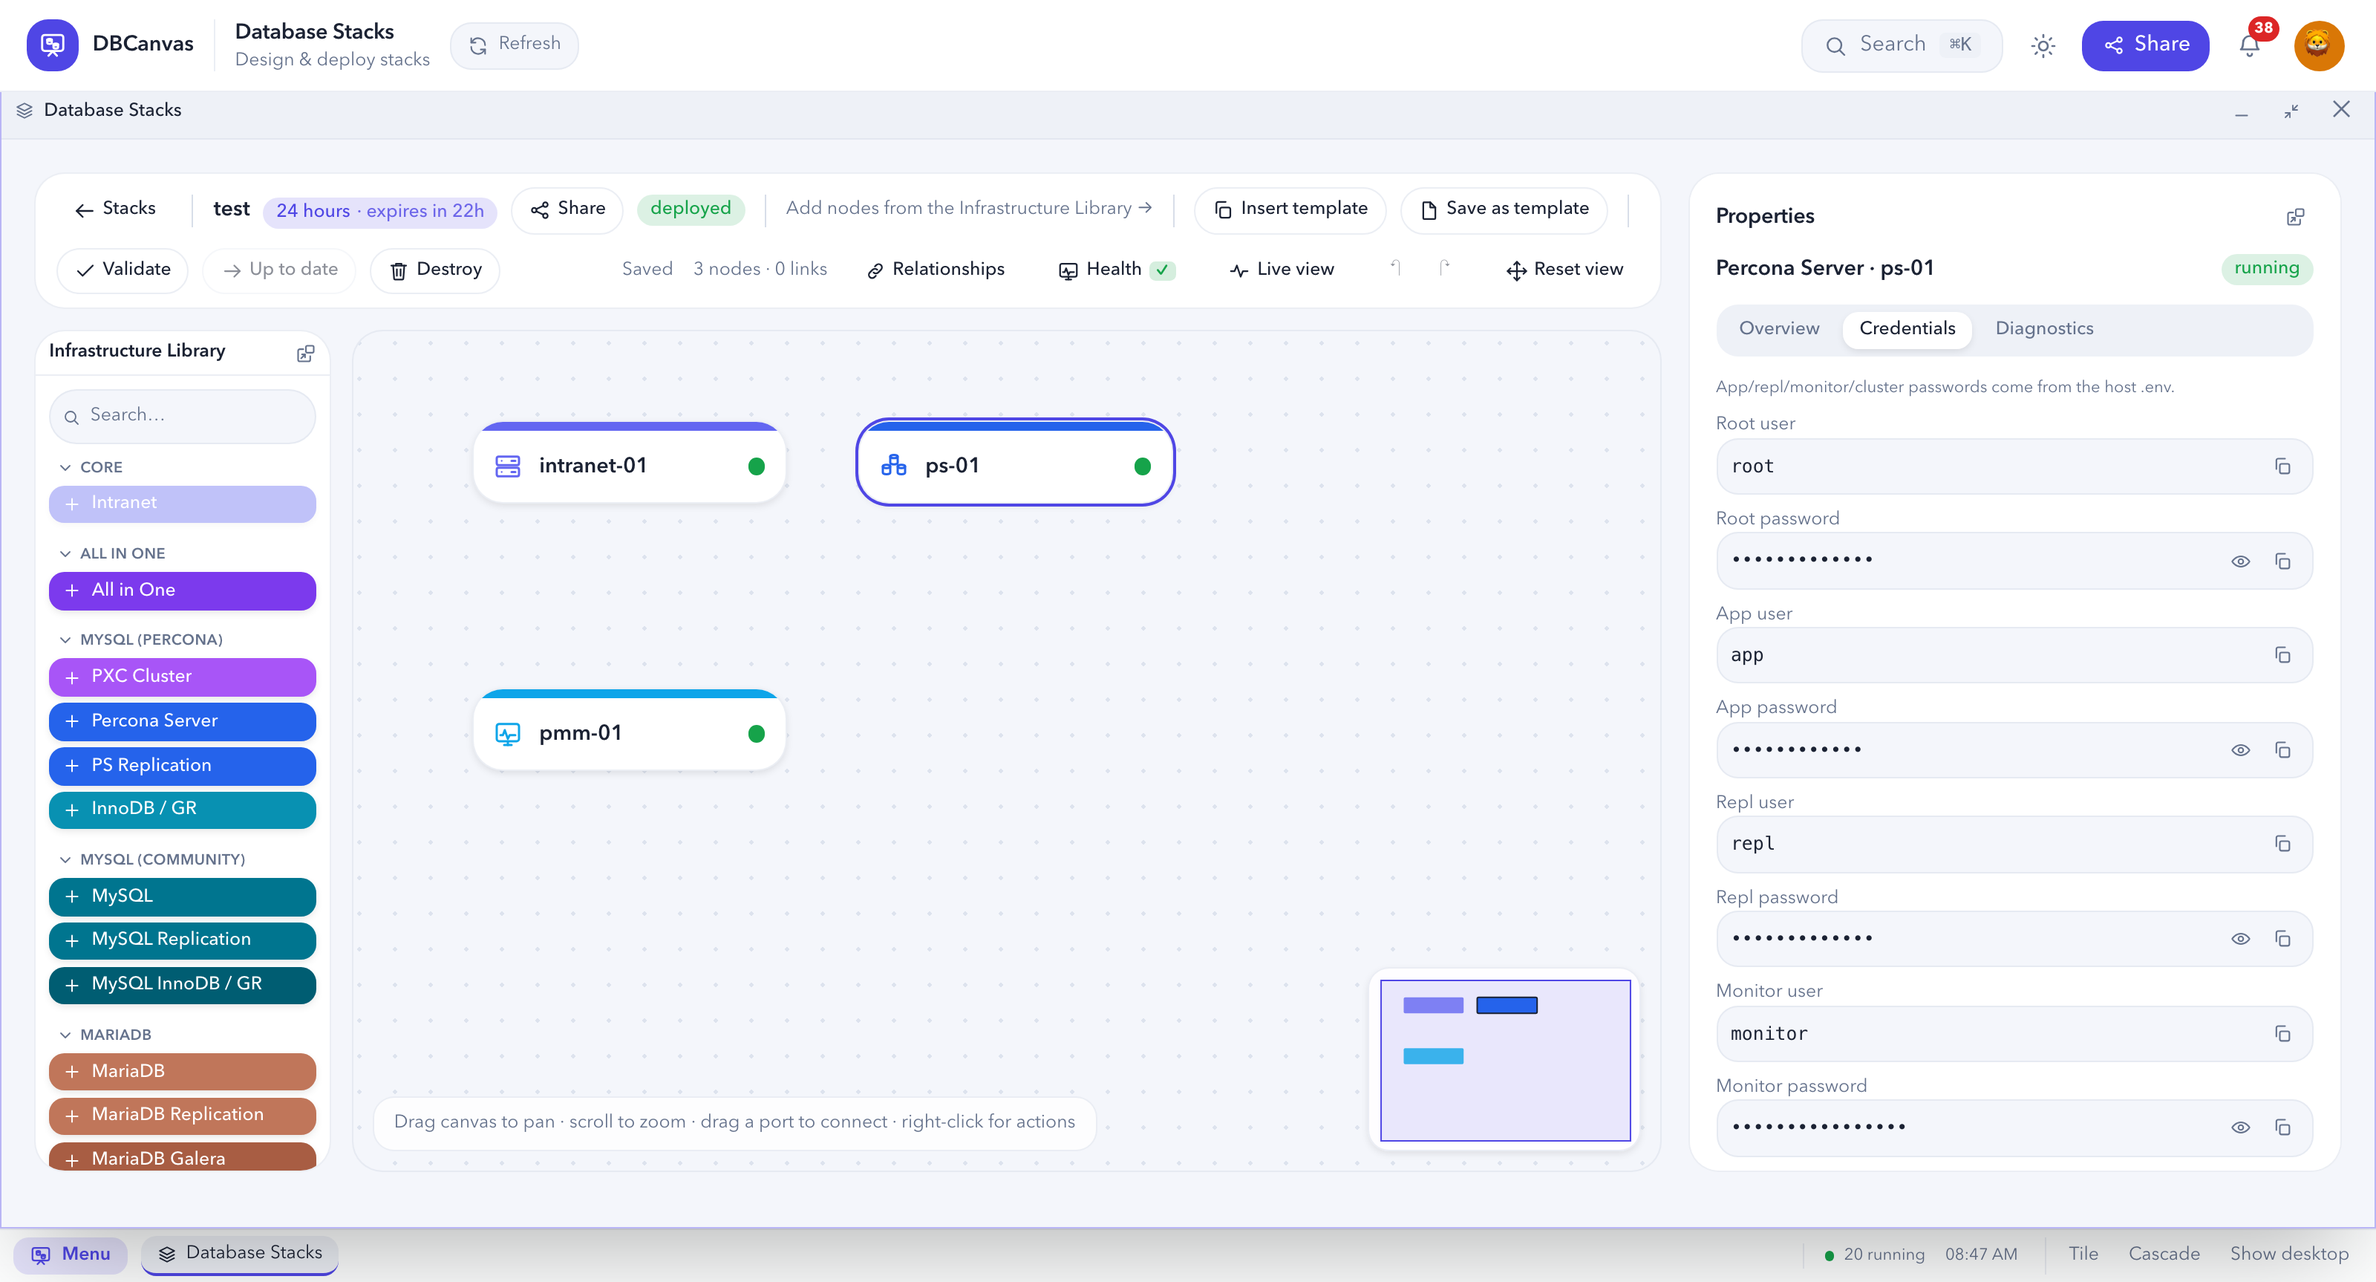
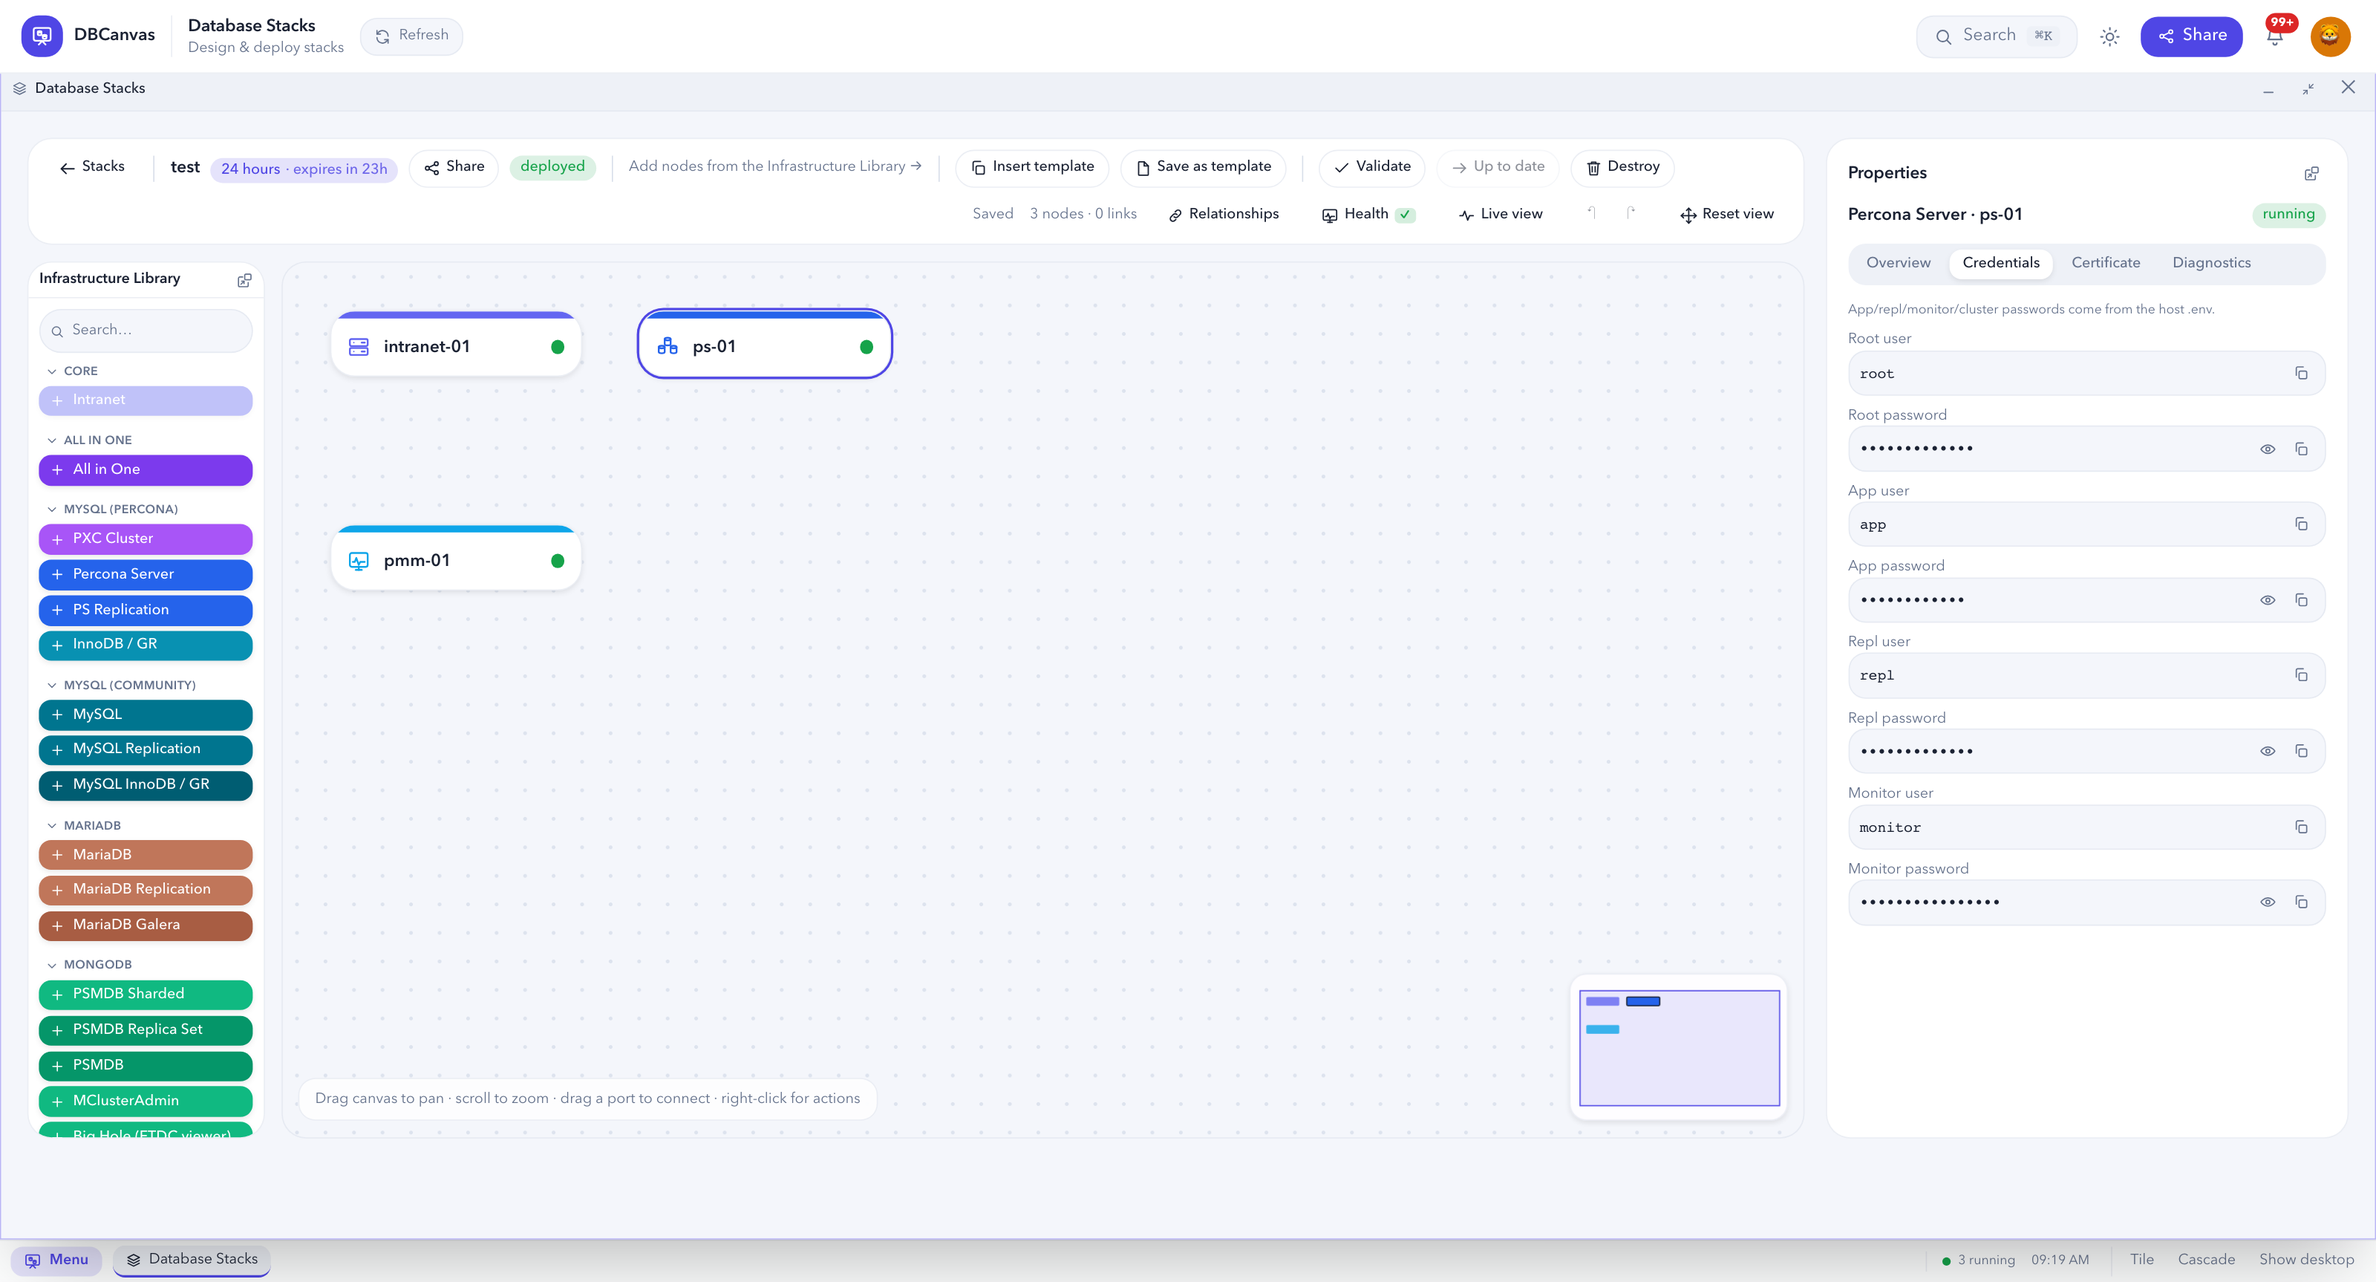
Release 0.0.23
Release notes for Performance Sim, Valkey replicas per shard and Valkey
with Sentinel, certificate re-issue, deploy-time locks, MySQL file tools,
terminal tabs, the removed simulators and fixes. The guides describe the
Certificate tab and the locked settings, and the node panel screenshots
are retaken.

diff --git a/app/whatsnew.go b/app/whatsnew.go
@@ -7,8 +7,8 @@ import (
 // whatsnew.go — the release notes DBCanvas shows you once, the first time you open
 // a build you have not seen.
 //
-// The notes are Go literals, the same way labs.go and templates_builtin.go carry
-// their content. The alternative — parsing the README's "What's new" section at run
+// The notes are Go literals, the same way templates_builtin.go carries its
+// content. The alternative — parsing the README's "What's new" section at run
 // time — was tempting because that prose already exists, but that section is
 // <details> blocks, screenshots and relative links written for somebody reading
 // GitHub. It is good prose and a bad data source. So these are written separately,
@@ -36,6 +36,65 @@ type releaseNote struct {
 // whatsNewNotes is newest first. Keep it that way: the dialog opens the top entry
 // expanded, and the tests assume the ordering.
 var whatsNewNotes = []releaseNote{
+	{
+		Version: "0.0.23",
+		Date:    "2026-10-30",
+		Title:   "Performance Sim: make a database misbehave and watch the impact",
+		Body:    "A new simulator whose stressors make a MySQL-family, PostgreSQL, MongoDB or Valkey server or cluster misbehave on purpose, with a live timeline of the effect on every member and on a steady application workload. Replication lag from large transactions, a no-op ALTER, VACUUM FULL or an index build, a read lock, a stopped, paused or delayed applier, and a Sentinel failover (coordinated or forced, counting the writes a forced one loses); a connection storm, hot rows and deadlocks, a long transaction, a commit storm, CPU-heavy queries, many tables, temporary tables, full scans, redo or WAL pressure and a working set larger than memory; and network latency, loss and bandwidth, and disk caps, applied by DBCanvas to chosen members. It links to servers, clusters (sharded MongoDB and Spock included), proxies and Kubernetes frames, or connects to an All in One instance or a server by address. Compose builds one with --node perfsim. Build it with make perfsim-image.",
+		Doc:     "docs/STACKS.md",
+	},
+	{
+		Version: "0.0.23",
+		Date:    "2026-10-30",
+		Title:   "Valkey: replicas per shard, and Valkey with Sentinel",
+		Body:    "A Valkey Cluster can give each shard one or two replicas (replicas=N in compose). A new Valkey Sentinel cluster runs a primary and its replicas with Sentinel on every member, promoting a replica if the primary fails; every member announces its host name, so repeated failovers keep one primary. Valkey also starts on an arm64 host running amd64 images.",
+		Doc:     "docs/STACKS.md",
+	},
+	{
+		Version: "0.0.23",
+		Date:    "2026-10-30",
+		Title:   "Re-issue a database certificate with the lifetime you choose",
+		Body:    "Every MySQL-family node now has a Certificate tab, as PostgreSQL and MongoDB nodes do: it shows the server certificate and re-issues it from the Intranet CA, valid for the minutes, hours or days entered, over the installed files and without restarting the server. MySQL serves it after ALTER INSTANCE RELOAD TLS (FLUSH SSL on MariaDB), PostgreSQL after a reload. A short lifetime is how to test expiry.",
+		Doc:     "docs/STACKS.md",
+	},
+	{
+		Version: "0.0.23",
+		Date:    "2026-10-30",
+		Title:   "Settings fixed at deploy are locked once deployed",
+		Body:    "A deployed node's or cluster's form no longer lets you change what only a deploy applies — its name, GTID, the package proxy, the certificate and its lifetime, the replication mode, a member's port export — and no longer offers the MySQL file tools, which are chosen in the design. Settings the panel applies to running servers, such as PMM on a PXC cluster or the Orchestrator link, stay editable.",
+	},
+	{
+		Version: "0.0.23",
+		Date:    "2026-10-30",
+		Title:   "MySQL file tools on database servers and the Linux Client",
+		Body:    "Percona Server, PXC, MySQL, MariaDB and the InnoDB/Group Replication clusters can install innodump and binlogsum, and PXC and MariaDB Galera also gcache-inspector, from each project's latest GitHub release with its checksum verified. The Linux Client offers all three.",
+		Doc:     "docs/STACKS.md",
+	},
+	{
+		Version: "0.0.23",
+		Date:    "2026-10-30",
+		Title:   "Terminal tabs move between windows",
+		Body:    "Drag a terminal window or a tab onto another window to join it as tabs, onto the dock to dock it, or onto empty space to open it as a window of its own; drag tabs along a strip to reorder them. Sessions keep running through every move.",
+	},
+	{
+		Version: "0.0.23",
+		Date:    "2026-10-30",
+		Title:   "Labs and five simulators removed",
+		Body:    "Labs, Traffic Sim, Hotel Sim, Airline Sim, Car Rental Sim and the Unoptimized MySQL Challenge are gone. Support Sim, pgvector Support Sim, Stock Market Sim, Ledger Sim and the new Performance Sim remain.",
+	},
+	{
+		Version: "0.0.23",
+		Date:    "2026-10-30",
+		Title:   "Fixes",
+		Body:    "A redeploy brings back a node whose container was removed outside DBCanvas, and no longer rebuilds a running Kubernetes cluster. Simulators reach Group Replication clusters that run without MySQL Router. VNC desktops and node web pages open on installations with their own DBCANVAS_INSTANCE. systemd-journald keeps running in amd64 containers on arm64 hosts. A disk-limit helper container is always removed. The CLI's log and compose commands send what the server expects, and the guides were rewritten to be shorter and checked against the app.",
+		Doc:     "docs/GETTING_STARTED.md",
+	},
+	{
+		Version: "0.0.23",
+		Date:    "2026-10-30",
+		Title:   "Upgrading: build the Performance Sim image",
+		Body:    "After git pull, run make adopt-images, then make perfsim-image to add Performance Sim, then make compose. No other image definition changed. The images of the removed simulators can be deleted with docker image rm.",
+	},
 	{
 		Version: "0.0.22",
 		Date:    "2026-10-28",

diff --git a/README.md b/README.md
@@ -104,8 +104,9 @@ ProxySQL, HAProxy, PgBouncer, Orchestrator, SeaweedFS (S3), Ceph, Keycloak, Open
 Watchtower, a package Repository, MClusterAdmin, Big Hole, an Ubuntu VNC desktop and a Linux
 Client.
 
-**Simulated load**: applications that send realistic traffic to your databases, including hotel,
-airline, car rental, support desk, ledger and stock market simulators.
+**Simulated load**: applications that send realistic traffic to your databases — support desk,
+ledger and stock market simulators — and Performance Sim, whose stressors make a server or
+cluster misbehave on purpose and show the impact live.
 
 ## Tools
 
@@ -159,9 +160,93 @@ airline, car rental, support desk, ledger and stock market simulators.
 
 ## What's new
 
-### 0.0.22
+### 0.0.23
 
 <details open>
+<summary><b>Performance Sim: make a database misbehave and watch the impact</b></summary>
+
+A new simulator whose stressors make a MySQL-family, PostgreSQL, MongoDB or Valkey server or cluster misbehave on
+purpose, with a live timeline of the effect on every member and on a steady application workload. Replication lag
+from large transactions, a no-op ALTER, VACUUM FULL or an index build, a read lock, a stopped, paused or delayed
+applier, and a Sentinel failover (coordinated or forced, counting the writes a forced one loses); a connection
+storm, hot rows and deadlocks, a long transaction, a commit storm, CPU-heavy queries, many tables, temporary
+tables, full scans, redo or WAL pressure and a working set larger than memory; and network latency, loss and
+bandwidth, and disk caps, applied by DBCanvas to chosen members. It links to servers, clusters (sharded MongoDB and
+Spock included), proxies and Kubernetes frames, or connects to an All in One instance or a server by address.
+Compose builds one with `--node perfsim`. Build it with `make perfsim-image`. See [Stacks](docs/STACKS.md).
+</details>
+
+<details>
+<summary><b>Valkey: replicas per shard, and Valkey with Sentinel</b></summary>
+
+A Valkey Cluster can give each shard one or two replicas (`replicas=N` in compose). A new Valkey Sentinel cluster
+runs a primary and its replicas with Sentinel on every member, promoting a replica if the primary fails; every
+member announces its host name, so repeated failovers keep one primary. Valkey also starts on an arm64 host running
+amd64 images. See [Stacks](docs/STACKS.md).
+</details>
+
+<details>
+<summary><b>Re-issue a database certificate with the lifetime you choose</b></summary>
+
+Every MySQL-family node now has a Certificate tab, as PostgreSQL and MongoDB nodes do: it shows the server
+certificate and re-issues it from the Intranet CA, valid for the minutes, hours or days entered, over the installed
+files and without restarting the server. MySQL serves it after `ALTER INSTANCE RELOAD TLS` (`FLUSH SSL` on
+MariaDB), PostgreSQL after a reload. A short lifetime is how to test expiry. See [Stacks](docs/STACKS.md).
+</details>
+
+<details>
+<summary><b>Settings fixed at deploy are locked once deployed</b></summary>
+
+A deployed node's or cluster's form no longer lets you change what only a deploy applies — its name, GTID, the
+package proxy, the certificate and its lifetime, the replication mode, a member's port export — and no longer
+offers the MySQL file tools, which are chosen in the design. Settings the panel applies to running servers, such as
+PMM on a PXC cluster or the Orchestrator link, stay editable.
+</details>
+
+<details>
+<summary><b>MySQL file tools on database servers and the Linux Client</b></summary>
+
+Percona Server, PXC, MySQL, MariaDB and the InnoDB/Group Replication clusters can install `innodump` and
+`binlogsum`, and PXC and MariaDB Galera also `gcache-inspector`, from each project's latest GitHub release with its
+checksum verified. The Linux Client offers all three. See [Stacks](docs/STACKS.md).
+</details>
+
+<details>
+<summary><b>Terminal tabs move between windows</b></summary>
+
+Drag a terminal window or a tab onto another window to join it as tabs, onto the dock to dock it, or onto empty
+space to open it as a window of its own; drag tabs along a strip to reorder them. Sessions keep running through
+every move.
+</details>
+
+<details>
+<summary><b>Labs and five simulators removed</b></summary>
+
+Labs, Traffic Sim, Hotel Sim, Airline Sim, Car Rental Sim and the Unoptimized MySQL Challenge are gone. Support
+Sim, pgvector Support Sim, Stock Market Sim, Ledger Sim and the new Performance Sim remain.
+</details>
+
+<details>
+<summary><b>Fixes</b></summary>
+
+A redeploy brings back a node whose container was removed outside DBCanvas, and no longer rebuilds a running
+Kubernetes cluster. Simulators reach Group Replication clusters that run without MySQL Router. VNC desktops and
+node web pages open on installations with their own `DBCANVAS_INSTANCE`. `systemd-journald` keeps running in amd64
+containers on arm64 hosts. A disk-limit helper container is always removed. The CLI's log and compose commands send
+what the server expects, and the guides were rewritten to be shorter and checked against the app. See [Getting
+started](docs/GETTING_STARTED.md).
+</details>
+
+<details>
+<summary><b>Upgrading: build the Performance Sim image</b></summary>
+
+After `git pull`, run `make adopt-images`, then `make perfsim-image` to add Performance Sim, then `make compose`.
+No other image definition changed. The images of the removed simulators can be deleted with `docker image rm`.
+</details>
+
+### 0.0.22
+
+<details>
 <summary><b>The desktop's Menu, and K3D clusters named for every installation</b></summary>
 
 The desktop taskbar's **Start** button is now **Menu**. Every installation's K3D clusters now carry its

diff --git a/docs/STACKS.md b/docs/STACKS.md
@@ -120,7 +120,8 @@ verified:
 
 On a cluster the option is on the cluster and installs on every data member (not on `garbd`
 arbitrators). The tools are installed once each server is running, at the end of the deploy, and
-a notification says what was installed. To add one to a running server, tick it and redeploy.
+a notification says what was installed. They are chosen in the design: a deployed node's form
+does not offer them.
 
 ### MongoDB
 
@@ -768,6 +769,19 @@ every chart.
 
 > *A deployed node's panel: version, image, ports, container, credentials, certificate, and a root
 > console.*
+
+**Settings fixed at deploy.** Once a node or cluster is deployed, the settings only a deploy
+applies are locked in its form: its name (host names come from it), version, GTID, package proxy,
+certificate and its lifetime, replication mode, port export and the like. Settings the panel can
+apply to the running servers stay editable, with their own apply button: PMM monitoring on a PXC
+cluster and the Orchestrator link on a replication cluster.
+
+**Re-issue a certificate.** A database node's **Certificate** tab shows its server certificate
+and re-issues it from the Intranet CA, valid for the minutes, hours or days you enter — a short
+lifetime is how to test expiry. The files are replaced where they are installed and the server
+keeps running. MySQL-family servers serve the new certificate after `ALTER INSTANCE RELOAD TLS`
+(`FLUSH SSL` on MariaDB) or a restart, PostgreSQL after `SELECT pg_reload_conf()` or a restart,
+MongoDB after `db.adminCommand({ rotateCertificates: 1 })` or a restart.
 
 **Deployed versions.** A running node records the exact version it deployed (`PS 8.4.10-10`,
 `PMM 3.3.1`). It is in the node's properties and in the card's tooltip.

diff --git a/docs/API_REFERENCE.md b/docs/API_REFERENCE.md
@@ -1166,7 +1166,7 @@ The Intranet node is the stack's certificate authority; every node trusts it.
 | The CA certificate | `GET …/nodes/{nid}/cert` (Intranet node) | `dbcanvas api GET …/cert` |
 | Reissue the Intranet node's certificate | `POST …/nodes/{nid}/cert` | `dbcanvas api POST …/cert` |
 | Client certificates: list · issue · fetch (with key and chain) · delete | `GET`/`POST …/nodes/{nid}/dbcerts` · `GET …/dbcerts/{user}` · `POST …/dbcerts/delete` | `dbcanvas api POST …/dbcerts --data '{"user":"appuser"}'` |
-| A database node's server certificate: read · reissue | `GET`/`POST …/nodes/{nid}/pxc/cert`, `/pg/cert`, `/mongo/cert`, `/pmm/cert` | `dbcanvas api POST …/pg/cert` |
+| A database node's server certificate: read · reissue with a lifetime (`{"value": 10, "unit": "minutes"}`; `minutes`, `hours` or `days`) over the installed files, without a restart | `GET`/`POST …/nodes/{nid}/mysql/cert` (every MySQL-family node; `/pxc/cert` also works), `/pg/cert`, `/mongo/cert`, `/pmm/cert` | `dbcanvas api POST …/mysql/cert --data '{"value":10,"unit":"minutes"}'` |
 
 ## Intranet mail
 

diff --git a/docs/GETTING_STARTED.md b/docs/GETTING_STARTED.md
@@ -149,10 +149,11 @@ options.
 > *The **Overview** tab: what the node is, its network address, what monitors it, and the image
 > and container it runs in.*
 
-The tabs depend on the node type — for example **Overview**, **Credentials** and
-**Diagnostics** on a database node, LDAP users and mail on the Intranet, a bucket browser on
+The tabs depend on the node type — for example **Overview**, **Credentials**, **Certificate**
+and **Diagnostics** on a database node, LDAP users and mail on the Intranet, a bucket browser on
 SeaweedFS. On database nodes, **Diagnostics** captures a `pg_gather` report or a `pt-stalk`
-archive for [Stalk Summary](STALK_SUMMARY.md).
+archive for [Stalk Summary](STALK_SUMMARY.md), and **Certificate** re-issues the server
+certificate with a lifetime you choose (see [Stacks](STACKS.md#work-with-deployed-nodes)).
 
 ## Connecting to your databases
 
